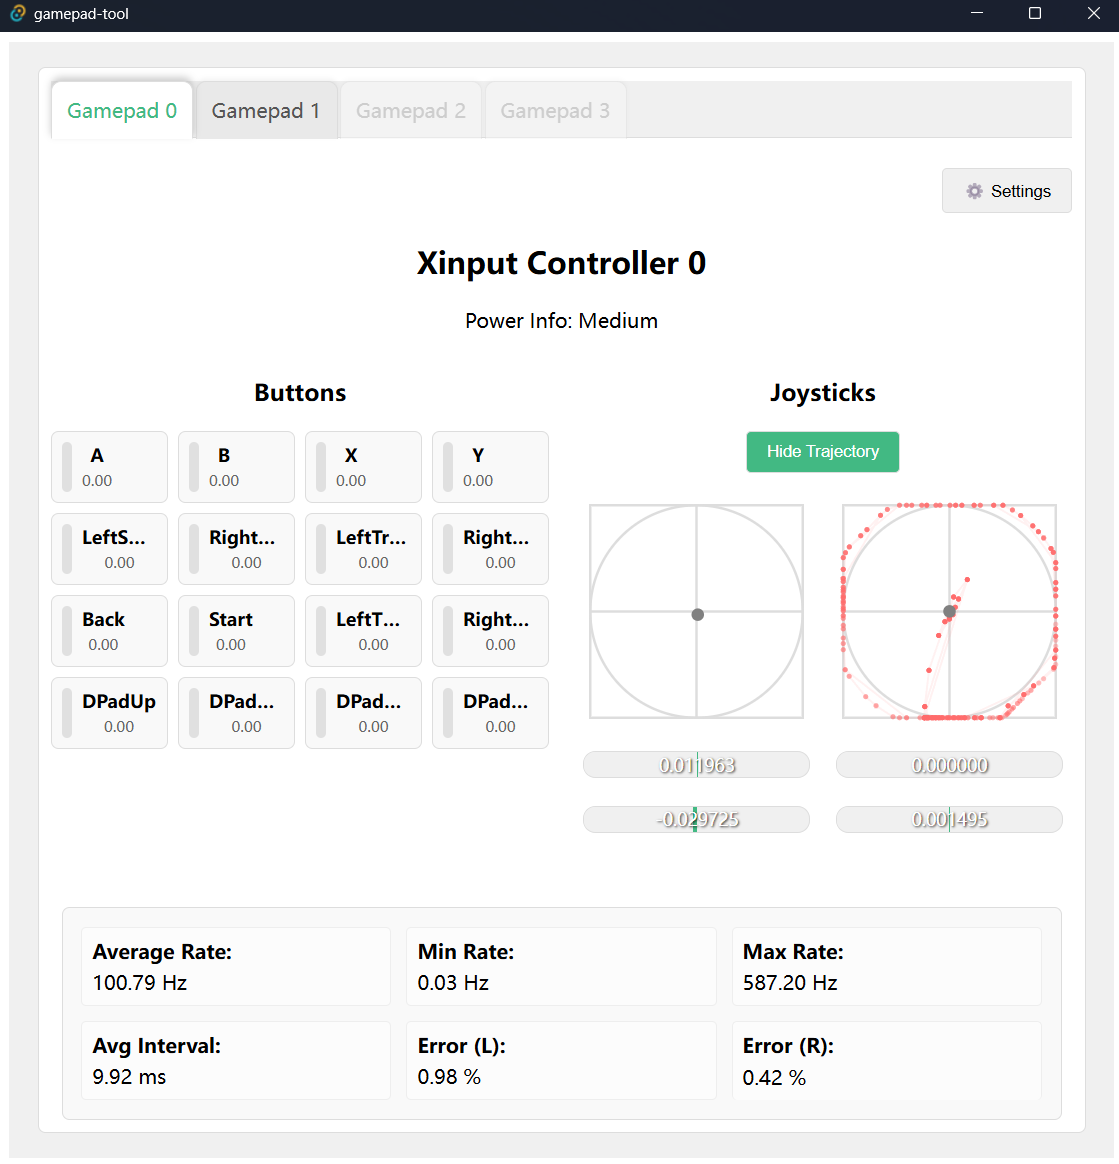
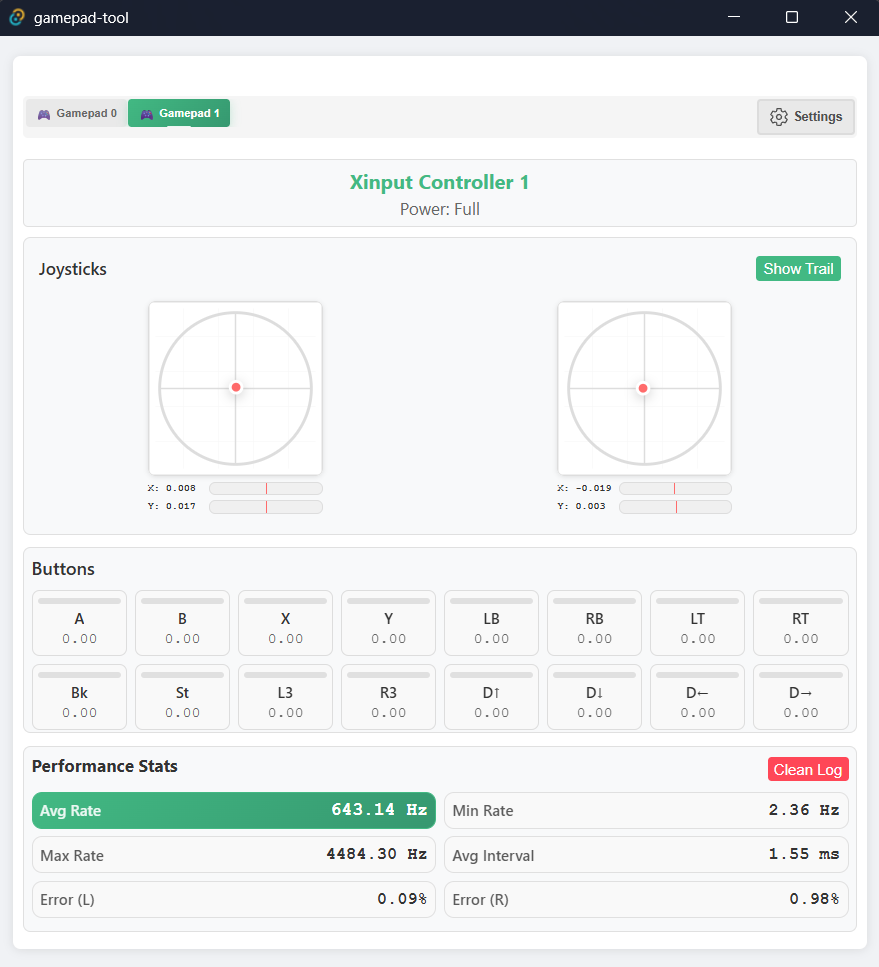
refactor: Remove unused models and websocket code; add clean log command and UI integration

diff --git a/src/views/RefactoredGamepadTestPage.vue b/src/views/RefactoredGamepadTestPage.vue
@@ -89,7 +89,20 @@
 
           <!-- 性能数据显示区域 -->
           <div class="grid-item performance-area">
-            <PollingRateDisplay :polling-rate-data="selectedPollingRateData" />
+            <div class="performance-header">
+              <h3>Performance Stats</h3>
+              <div class="performance-controls">
+                <button
+                  class="clear-button"
+                  @click="handleCleanLog"
+                >
+                  Clean Log
+                </button>
+              </div>
+            </div>
+            <div class="performance-content">
+              <PollingRateDisplay :polling-rate-data="selectedPollingRateData" />
+            </div>
           </div>
         </div>
       </div>
@@ -123,7 +136,8 @@ const {
   updateFrameRate,
   updateLogSize,
   updateSelectedGamepadId,
-  cleanup: cleanupAppManager
+  cleanup: cleanupAppManager,
+  tauriCommands
 } = useAppManager()
 
 // 2. 初始化手柄状态管理器
@@ -173,6 +187,14 @@ const handleLogSizeUpdate = (size: number) => {
 
 const handleClearHistory = () => {
   clearAllHistory()
+}
+
+const handleCleanLog = async () => {
+  try {
+    await tauriCommands.cleanLog()
+  } catch (error) {
+    console.error("Failed to clean log:", error)
+  }
 }
 
 const handleInnerDeadzoneUpdate = (value: number) => {
@@ -456,6 +478,33 @@ onBeforeUnmount(() => {
 
 .clear-button:hover {
   background: #ff3742;
+}
+
+.performance-header {
+  display: flex;
+  justify-content: space-between;
+  align-items: center;
+  margin-bottom: 6px;
+  flex-wrap: nowrap;
+  gap: 8px;
+  flex-shrink: 0;
+  min-height: 24px;
+}
+
+.performance-header h3 {
+  margin: 0;
+}
+
+.performance-controls {
+  display: flex;
+  gap: 8px;
+  align-items: center;
+}
+
+.performance-content {
+  flex: 1;
+  display: flex;
+  flex-direction: column;
 }
 
 /* 宽屏和超宽屏：三栏布局，Performance Stats较窄 (1000px+) */

diff --git a/src/composables/useAppManager.ts b/src/composables/useAppManager.ts
@@ -82,6 +82,17 @@ export function useAppManager() {
         console.error("Error getting gamepad IDs:", error)
         return [0]
       }
+    },
+    
+    async cleanLog(): Promise<void> {
+      try {
+        console.log("Cleaning log data...")
+        await invoke<void>("clean_log")
+        console.log("Log data cleaned successfully")
+      } catch (error) {
+        console.error("Error cleaning log:", error)
+        throw error
+      }
     }
   }
   

diff --git a/src/components/PollingRateDisplay.vue b/src/components/PollingRateDisplay.vue
@@ -1,6 +1,5 @@
 <template>
   <div class="polling-rate-display">
-    <h3>Performance Stats</h3>
     <div v-if="pollingRateData" class="stats-grid">
       <div class="stat-item primary">
         <span class="stat-label">Avg Rate</span>

diff --git a/src-tauri/src/util/gamepad_util.rs b/src-tauri/src/util/gamepad_util.rs
@@ -1,9 +1,9 @@
+use crate::util::input_wrapper::{RawInput, XInput};
+use crate::util::math_util::MathUtil;
+use libm::atan2;
+use serde::{Deserialize, Serialize};
 use std::collections::{HashMap, HashSet};
 use std::time::Instant;
-use serde::{Deserialize, Serialize};
-use libm::atan2;
-use crate::util::math_util::MathUtil;
-use crate::util::input_wrapper::{RawInput, XInput};
 
 const MAX_LOG_SIZE: usize = 1000;
 const CALCULATE_INTERVAL: usize = 100; // caluculate onece per 100 logs
@@ -48,37 +48,42 @@ impl GamepadState {
     }
 
     /// 从 XInput 控制器状态构造 GamepadInfo
-    pub fn get_xinput_gamepad(
-        &mut self,
-        user_index: u32,   
-    ) -> GamepadInfo {
+    pub fn get_xinput_gamepad(&mut self, user_index: u32) -> GamepadInfo {
         self.xinput_state.update(user_index);
         let gamepad = self.xinput_state.get_controller(user_index).unwrap();
         // 映射按钮
-        let buttons = gamepad.buttons.iter().map(|(k, v)| {
-            (
-                k.to_string(),
-                ButtonData {
-                    button: k.to_string(),
-                    is_pressed: v.is_pressed,
-                    value: v.value as f64 / 255.0f64,
-                },
-            )
-        }).collect::<HashMap<String, ButtonData>>();
+        let buttons = gamepad
+            .buttons
+            .iter()
+            .map(|(k, v)| {
+                (
+                    k.to_string(),
+                    ButtonData {
+                        button: k.to_string(),
+                        is_pressed: v.is_pressed,
+                        value: v.value as f64 / 255.0f64,
+                    },
+                )
+            })
+            .collect::<HashMap<String, ButtonData>>();
         // 映射轴
-        let axes = gamepad.axes.iter().map(|(k, v)| {
-            (
-                k.to_string(),
-                AxisData {
-                    axis: k.to_string(),
-                    value: v.value as f64 / 32767.0f64,
-                },
-            )
-        }).collect::<HashMap<String, AxisData>>();
+        let axes = gamepad
+            .axes
+            .iter()
+            .map(|(k, v)| {
+                (
+                    k.to_string(),
+                    AxisData {
+                        axis: k.to_string(),
+                        value: v.value as f64 / 32767.0f64,
+                    },
+                )
+            })
+            .collect::<HashMap<String, AxisData>>();
         let vendor_id = 0;
         let product_id = 0;
         let name = format!("Xinput Controller {}", user_index);
-        
+
         // 构造 GamepadInfo
         GamepadInfo {
             id: user_index,
@@ -118,7 +123,13 @@ impl GamepadState {
         let memo = self.memo.entry(user_index).or_insert(Memo::new());
         let logs = &memo.polling_rate_log;
         let math_util = &mut memo.math_utils;
-        let result = math_util.calc_frequency(logs.iter().map(|log| (log.timestamp as i64, log.xyxy.clone())).collect()).unwrap();
+        let result = math_util
+            .calc_frequency(
+                logs.iter()
+                    .map(|log| (log.timestamp as i64, log.xyxy.clone()))
+                    .collect(),
+            )
+            .unwrap();
         let polling_rate_result = PollingRateResult {
             polling_rate_avg: result.0,
             polling_rate_min: result.1,
@@ -177,6 +188,11 @@ impl GamepadState {
             memo.log_size = log_size;
         });
     }
+
+    pub fn reset(&mut self) {
+        self.cur_gamepads.clear();
+        self.memo.clear();
+    }
 }
 
 fn calc_avg_error<T>(dir_bin: HashMap<T, u32>) -> f64 {
@@ -187,18 +203,20 @@ fn calc_avg_error<T>(dir_bin: HashMap<T, u32>) -> f64 {
 }
 
 pub fn polling_rate_log_to_output_log(logs: &Vec<PollingRateLog>) -> Vec<OutputLog> {
-    logs.iter().map(|log| {
-        let xyxy = log.xyxy;
-        OutputLog {
-            timestamp: log.timestamp,
-            xyxy: (
-                xyxy.0 as f64 / MAX_R,
-                xyxy.1 as f64 / MAX_R,
-                xyxy.2 as f64 / MAX_R,
-                xyxy.3 as f64 / MAX_R,
-            ),
-        }
-    }).collect()
+    logs.iter()
+        .map(|log| {
+            let xyxy = log.xyxy;
+            OutputLog {
+                timestamp: log.timestamp,
+                xyxy: (
+                    xyxy.0 as f64 / MAX_R,
+                    xyxy.1 as f64 / MAX_R,
+                    xyxy.2 as f64 / MAX_R,
+                    xyxy.3 as f64 / MAX_R,
+                ),
+            }
+        })
+        .collect()
 }
 
 #[derive(Serialize, Debug, Deserialize, Clone)]
@@ -239,7 +257,6 @@ impl PollingRateLog {
             xyxy: (0, 0, 0, 0),
         }
     }
-    
 }
 
 #[derive(Serialize, Debug, Deserialize, Clone)]
@@ -293,4 +310,3 @@ impl Direction {
         }
     }
 }
-

diff --git a/src-tauri/src/cmds.rs b/src-tauri/src/cmds.rs
@@ -32,8 +32,6 @@ impl Default for GlobalGamepadState {
     }
 }
 
-use crate::models::StreamData;
-
 #[tauri::command]
 pub fn start_update(
     app_handle: AppHandle,
@@ -47,7 +45,6 @@ pub fn start_update(
     }
     let cancel_flag = state.update_running.clone();
     let mutex_state = Arc::clone(&state.mutex_state);
-    let clients = state.clients.clone();
 
     // 创建专用的高频轮询任务 - 独立运行，不受UI影响
     let polling_cancel_flag = cancel_flag.clone();
@@ -56,7 +53,7 @@ pub fn start_update(
         let mut polling_interval = time::interval(Duration::from_micros(POLLING_RATE_MICROSECONDS));
         // 设置为Burst模式以提高精度
         polling_interval.set_missed_tick_behavior(time::MissedTickBehavior::Burst);
-        
+
         let mut standby_interval = time::interval(Duration::from_micros(STANDBY_SLEEP_TIME));
 
         loop {
@@ -94,7 +91,7 @@ pub fn start_update(
     // 创建独立的数据发送任务 - 低频率，避免影响轮询
     tauri::async_runtime::spawn(async move {
         let mut emit_interval = time::interval(Duration::from_micros(1_000_000 / frame_rate));
-        
+
         loop {
             if !cancel_flag.load(Ordering::SeqCst) {
                 break;
@@ -125,24 +122,6 @@ pub fn start_update(
                 // 确保数据中包含当前选择的gamepad ID
                 if gamepad.id == user_id {
                     let output_logs = polling_rate_log_to_output_log(&polling_rate_log);
-                    
-                    // 发送到WebSocket客户端（高优先级，非阻塞）
-                    // let stream_data = StreamData {
-                    //     gamepad: gamepad.clone(),
-                    //     polling_rate_log: output_logs.clone(),
-                    //     polling_rate_result: polling_rate_result.clone(),
-                    // };
-
-                    // if let Ok(json_data) = serde_json::to_string(&stream_data) {
-                    //     // 异步发送WebSocket数据，不阻塞
-                    //     let clients_clone = clients.clone();
-                    //     let json_data_clone = json_data.clone();
-                    //     tokio::spawn(async move {
-                    //         if let Ok(mut clients_guard) = clients_clone.try_lock() {
-                    //             clients_guard.retain(|tx| tx.send(json_data_clone.clone()).is_ok());
-                    //         }
-                    //     });
-                    // }
 
                     // 异步发送Tauri事件，避免阻塞
                     let app_clone = app_handle.clone();
@@ -182,4 +161,10 @@ pub fn get_gamepad_ids(state: tauri::State<'_, GlobalGamepadState>) -> Vec<u32> 
 pub fn set_log_size(state: tauri::State<'_, GlobalGamepadState>, log_size: usize) {
     let mut gamepad_state = state.mutex_state.lock().unwrap();
     gamepad_state.set_log_size(log_size);
+}
+
+#[tauri::command]
+pub fn clean_log(state: tauri::State<'_, GlobalGamepadState>) {
+    let mut gamepad_state = state.mutex_state.lock().unwrap();
+    gamepad_state.reset();
 }

diff --git a/src-tauri/src/lib.rs b/src-tauri/src/lib.rs
@@ -1,36 +1,28 @@
-use std::sync::atomic::Ordering;
 use cmds::GlobalGamepadState;
+use std::sync::atomic::Ordering;
 use tauri::Manager;
 use util::gamepad_util::GamepadState;
 mod util {
     pub mod gamepad_util;
-    pub mod math_util;
     pub mod input_wrapper;
+    pub mod math_util;
 }
 mod cmds;
-mod websocket;
-mod models;
 
 #[cfg_attr(mobile, tauri::mobile_entry_point)]
 pub fn run() {
     let app = tauri::Builder::default()
         .plugin(tauri_plugin_opener::init())
-        .manage(
-            GlobalGamepadState::default()
-        )
+        .manage(GlobalGamepadState::default())
         .invoke_handler(tauri::generate_handler![
             cmds::start_update,
             cmds::stop_update,
             cmds::get_gamepad_ids,
             cmds::set_log_size,
-            websocket::get_websocket_port,
-            websocket::start_websocket_server_command,
-        ])        .setup(|app| {
-            let app_handle = app.handle().clone();
-            // 在应用启动时启动WebSocket服务器
-            tauri::async_runtime::spawn(async move {
-                websocket::start_websocket_server_command(app_handle);
-            });
+            cmds::clean_log,
+        ])
+        .setup(|app| {
+            let _ = app.handle().clone();
             Ok(())
         })
         .build(tauri::generate_context!())
